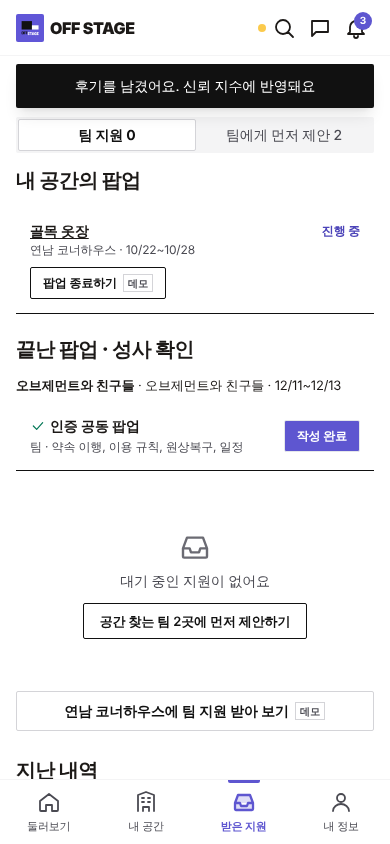
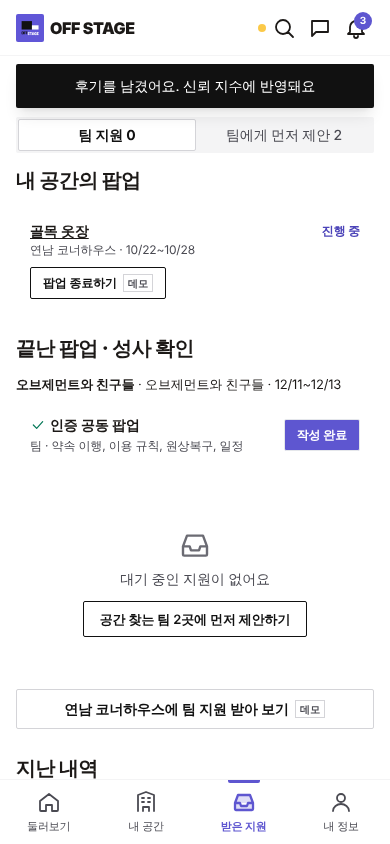
카드 구분을 검은 줄 대신 연회색 띠로, 평면도 끌기를 부드럽게(끄는 동안 동선 숨김, 놓으면 다시 그림), 걸어 보기 뺌
Claude-Session: https://claude.ai/code/session_0127PgxmrWax7HLBrSWBod79

diff --git a/src/screens/Layout.tsx b/src/screens/Layout.tsx
@@ -409,6 +409,8 @@ function Plan2D({ W, H, boxes, colorOf, initialOf, selected, onPick, onMove, pat
 }) {
   const svg = useRef<SVGSVGElement>(null);
   const drag = useRef<{ id: string; dx: number; dy: number; moved: boolean } | null>(null);
+  // 끄는 동안의 위치는 여기서만 들고 있다가, 놓을 때 한 번 저장한다(동선도 그때 다시 그림)
+  const [live, setLive] = useState<{ id: string; x: number; y: number } | null>(null);
   const scale = 330 / W;
   const toM = (e: React.PointerEvent) => {
     const pt = svg.current!.createSVGPoint();
@@ -417,6 +419,15 @@ function Plan2D({ W, H, boxes, colorOf, initialOf, selected, onPick, onMove, pat
     return { x: p.x / scale, y: p.y / scale };
   };
   const clamp = (v: number, lo: number, hi: number) => Math.max(lo, Math.min(hi, v));
+  const shown = live ? boxes.map((b) => (b.id === live.id ? { ...b, x: live.x, y: live.y } : b)) : boxes;
+  const end = () => {
+    const d = drag.current;
+    drag.current = null;
+    if (!d) return;
+    if (d.moved && live) onMove(d.id, Math.round(live.x * 10) / 10, Math.round(live.y * 10) / 10, true);
+    else if (!d.moved) onPick(d.id);
+    setLive(null);
+  };
   return (
     <svg ref={svg} viewBox={`-6 -6 ${W * scale + 12} ${H * scale + 30}`} className="w-full bg-white touch-none select-none" role="img" aria-label="공간 배치 평면도"
       onPointerMove={(e) => {
@@ -424,27 +435,24 @@ function Plan2D({ W, H, boxes, colorOf, initialOf, selected, onPick, onMove, pat
         if (!d) return;
         const b = boxes.find((x) => x.id === d.id)!;
         const p = toM(e);
+        const x = clamp(p.x - d.dx, 0, W - b.w);
+        const y = clamp(p.y - d.dy, 0, H - b.h);
+        if (!d.moved && Math.hypot(x - b.x, y - b.y) < 0.05) return;
         d.moved = true;
-        onMove(d.id, clamp(Math.round((p.x - d.dx) * 10) / 10, 0, W - b.w), clamp(Math.round((p.y - d.dy) * 10) / 10, 0, H - b.h), false);
+        setLive({ id: d.id, x, y });
       }}
-      onPointerUp={() => {
-        const d = drag.current;
-        drag.current = null;
-        if (!d) return;
-        const b = boxes.find((x) => x.id === d.id)!;
-        if (d.moved) onMove(d.id, b.x, b.y, true);
-        else onPick(d.id);
-      }}
+      onPointerUp={end}
+      onPointerCancel={end}
     >
       <rect x={0} y={0} width={W * scale} height={H * scale} fill="#fafafa" stroke="#111" strokeWidth={2} />
       <line x1={(W / 2 - DOOR / 2) * scale} y1={H * scale} x2={(W / 2 + DOOR / 2) * scale} y2={H * scale} stroke="#fafafa" strokeWidth={4} />
       <text x={(W / 2) * scale} y={H * scale + 16} textAnchor="middle" fontSize={11} fill="#5d5d66">입구</text>
-      {path && <PathArrows path={path} scale={scale} />}
-      {boxes.map((b) => {
+      {path && !live && <PathArrows path={path} scale={scale} />}
+      {shown.map((b) => {
         const movable = b.kind === 'hanger' || b.kind === 'table' || b.kind === 'photo';
         return (
           <g key={b.id}
-            onPointerDown={movable ? (e) => { (e.target as Element).setPointerCapture?.(e.pointerId); const p = toM(e); drag.current = { id: b.id, dx: p.x - b.x, dy: p.y - b.y, moved: false }; } : undefined}
+            onPointerDown={movable ? (e) => { svg.current?.setPointerCapture?.(e.pointerId); const p = toM(e); drag.current = { id: b.id, dx: p.x - b.x, dy: p.y - b.y, moved: false }; } : undefined}
             style={{ cursor: movable ? 'grab' : undefined }}>
             <rect x={b.x * scale} y={b.y * scale} width={b.w * scale} height={b.h * scale}
               fill={b.kind === 'fit' ? '#fff' : b.kind === 'counter' ? '#e4e4e7' : b.kind === 'mirror' ? '#8e8e96' : b.kind === 'photo' && !b.brandId ? '#e8dfd2' : colorOf(b.brandId)}
@@ -475,7 +483,7 @@ export function TeamLayoutTab({ team }: { team: Team }) {
   const boxes = draft ?? saved?.boxes ?? auto.boxes;
   // 끄는 중이면 동선도 따라 바뀐다
   const path = draft ? stopPath(W, H, draft) : saved ? saved.path : auto.path;
-  const [view, setView] = useState<'3d' | 'walk' | 'plan'>('3d');
+  const [view, setView] = useState<'3d' | 'plan'>('3d');
   const [angle, setAngle] = useState(-24);
   const [sel, setSel] = useState<string | null>(null);
   const [asking, setAsking] = useState(false);
@@ -548,8 +556,8 @@ export function TeamLayoutTab({ team }: { team: Team }) {
           <div className="text-[12px] text-ink-500">{sp ? `${sp.name} · ${area}㎡` : `공간 확정 전 · ${area}㎡ 기준`}</div>
         </div>
         <div className="flex rounded border border-ink-300 overflow-hidden text-[13px] font-semibold">
-          {((hasWebGL ? ['3d', 'walk', 'plan'] : ['3d', 'plan']) as ('3d' | 'walk' | 'plan')[]).map((k) => (
-            <button key={k} onClick={() => setView(k)} className={cx('px-3 h-8', view === k ? 'bg-ink-100 text-ink-900' : 'text-ink-500')}>{k === '3d' ? '3D' : k === 'walk' ? '걸어 보기' : '평면'}</button>
+          {(['3d', 'plan'] as const).map((k) => (
+            <button key={k} onClick={() => setView(k)} className={cx('px-3 h-8', view === k ? 'bg-ink-100 text-ink-900' : 'text-ink-500')}>{k === '3d' ? '3D' : '평면'}</button>
           ))}
         </div>
       </div>
@@ -558,10 +566,10 @@ export function TeamLayoutTab({ team }: { team: Team }) {
         {view !== 'plan' && hasWebGL ? (
           <div className="relative h-[400px]" style={{ background: '#ebe8e3' }}>
             <Suspense fallback={<div className="absolute inset-0 flex items-center justify-center text-[13px] text-ink-500">3D 매장을 불러오는 중</div>}>
-              <Room3DGL W={W} H={H} boxes={boxes} path={path} wallPhoto={wallPhoto} mode={view === 'walk' ? 'walk' : 'orbit'} colorOf={color} photoOf={photoOf} nameOf={nameOf} catOf={(id) => brandById(db, id)?.tags.categories[0]} selected={sel} onPick={(id) => setSel(sel === id ? null : id)}
+              <Room3DGL W={W} H={H} boxes={boxes} path={path} wallPhoto={wallPhoto} mode="orbit" colorOf={color} photoOf={photoOf} nameOf={nameOf} catOf={(id) => brandById(db, id)?.tags.categories[0]} selected={sel} onPick={(id) => setSel(sel === id ? null : id)}
                 onMove={(id, x, y) => setBoxes(boxes.map((b) => (b.id === id ? { ...b, x, y } : b)))} />
             </Suspense>
-            <div className="absolute left-3 bottom-2 text-[11px] text-ink-700 pointer-events-none bg-white/70 px-1.5">{view === 'walk' ? '밀어서 둘러보기 · 바닥을 누르면 걸어가요' : sel ? '고른 물건을 끌어서 옮겨요' : '밀어서 돌리기 · 두 손가락으로 확대 · 물건을 눌러 고르기'}</div>
+            <div className="absolute left-3 bottom-2 text-[11px] text-ink-700 pointer-events-none bg-white/70 px-1.5">{sel ? '고른 물건을 끌어서 옮겨요' : '밀어서 돌리기 · 두 손가락으로 확대 · 물건을 눌러 고르기'}</div>
           </div>
         ) : view !== 'plan' ? (
           <div

diff --git a/src/components/RoleSwitcher.tsx b/src/components/RoleSwitcher.tsx
@@ -13,7 +13,7 @@ export function RoleSwitcher({ row }: { row?: boolean }) {
   return (
     <>
       {row ? (
-        <button onClick={() => setOpen(true)} title="역할 전환(데모)" className="w-full flex items-center justify-between border-b border-ink-900 py-3 text-left">
+        <button onClick={() => setOpen(true)} title="역할 전환(데모)" className="w-full flex items-center justify-between border-b border-ink-200 py-3 text-left">
           <span className="text-[14px] font-bold">지금 {ROLE_LABEL[role]}로 보는 중 <Demo /></span>
           <span className="text-[13px] font-semibold text-ink-700 flex items-center gap-1"><Icon name="swap" className="w-3.5 h-3.5" />역할 바꾸기</span>
         </button>

diff --git a/src/index.css b/src/index.css
@@ -28,3 +28,14 @@ button { -webkit-tap-highlight-color: transparent; }
 .band { margin-left: -16px; margin-right: -16px; padding: 24px 16px 0; border-top: 10px solid #f2f2f3; }
 .band-section + .band-section, main section + section { border-top: 10px solid #f2f2f3; }
 main section + section { margin-top: 20px; padding-top: 28px; }
+
+/* 카드 구분: 아래쪽 10px 연회색 띠를 화면 양끝(좌우 여백 16px)까지 */
+.card-band {
+  border-bottom: 10px solid #f2f2f3;
+  border-image: linear-gradient(#f2f2f3, #f2f2f3) 0 0 1 0 / 0 0 10px 0 / 0 16px 0 16px;
+}
+/* 묶음의 마지막 카드는 다음 구역 띠와 겹치지 않게 띠를 뺀다 */
+.card-band:last-child {
+  border-bottom: 0;
+  border-image: none;
+}

diff --git a/src/components/ui.tsx b/src/components/ui.tsx
@@ -113,7 +113,7 @@ export function SortSelect<T extends string>({ value, onChange, options, label, 
 
 export function Card({ children, className, onClick }: { children: ReactNode; className?: string; onClick?: () => void }) {
   return (
-    <div onClick={onClick} className={cx('bg-white border-b border-ink-900', onClick && 'cursor-pointer active:bg-ink-100/40', className)}>
+    <div onClick={onClick} className={cx('bg-white card-band', onClick && 'cursor-pointer active:bg-ink-100/40', className)}>
       {children}
     </div>
   );
